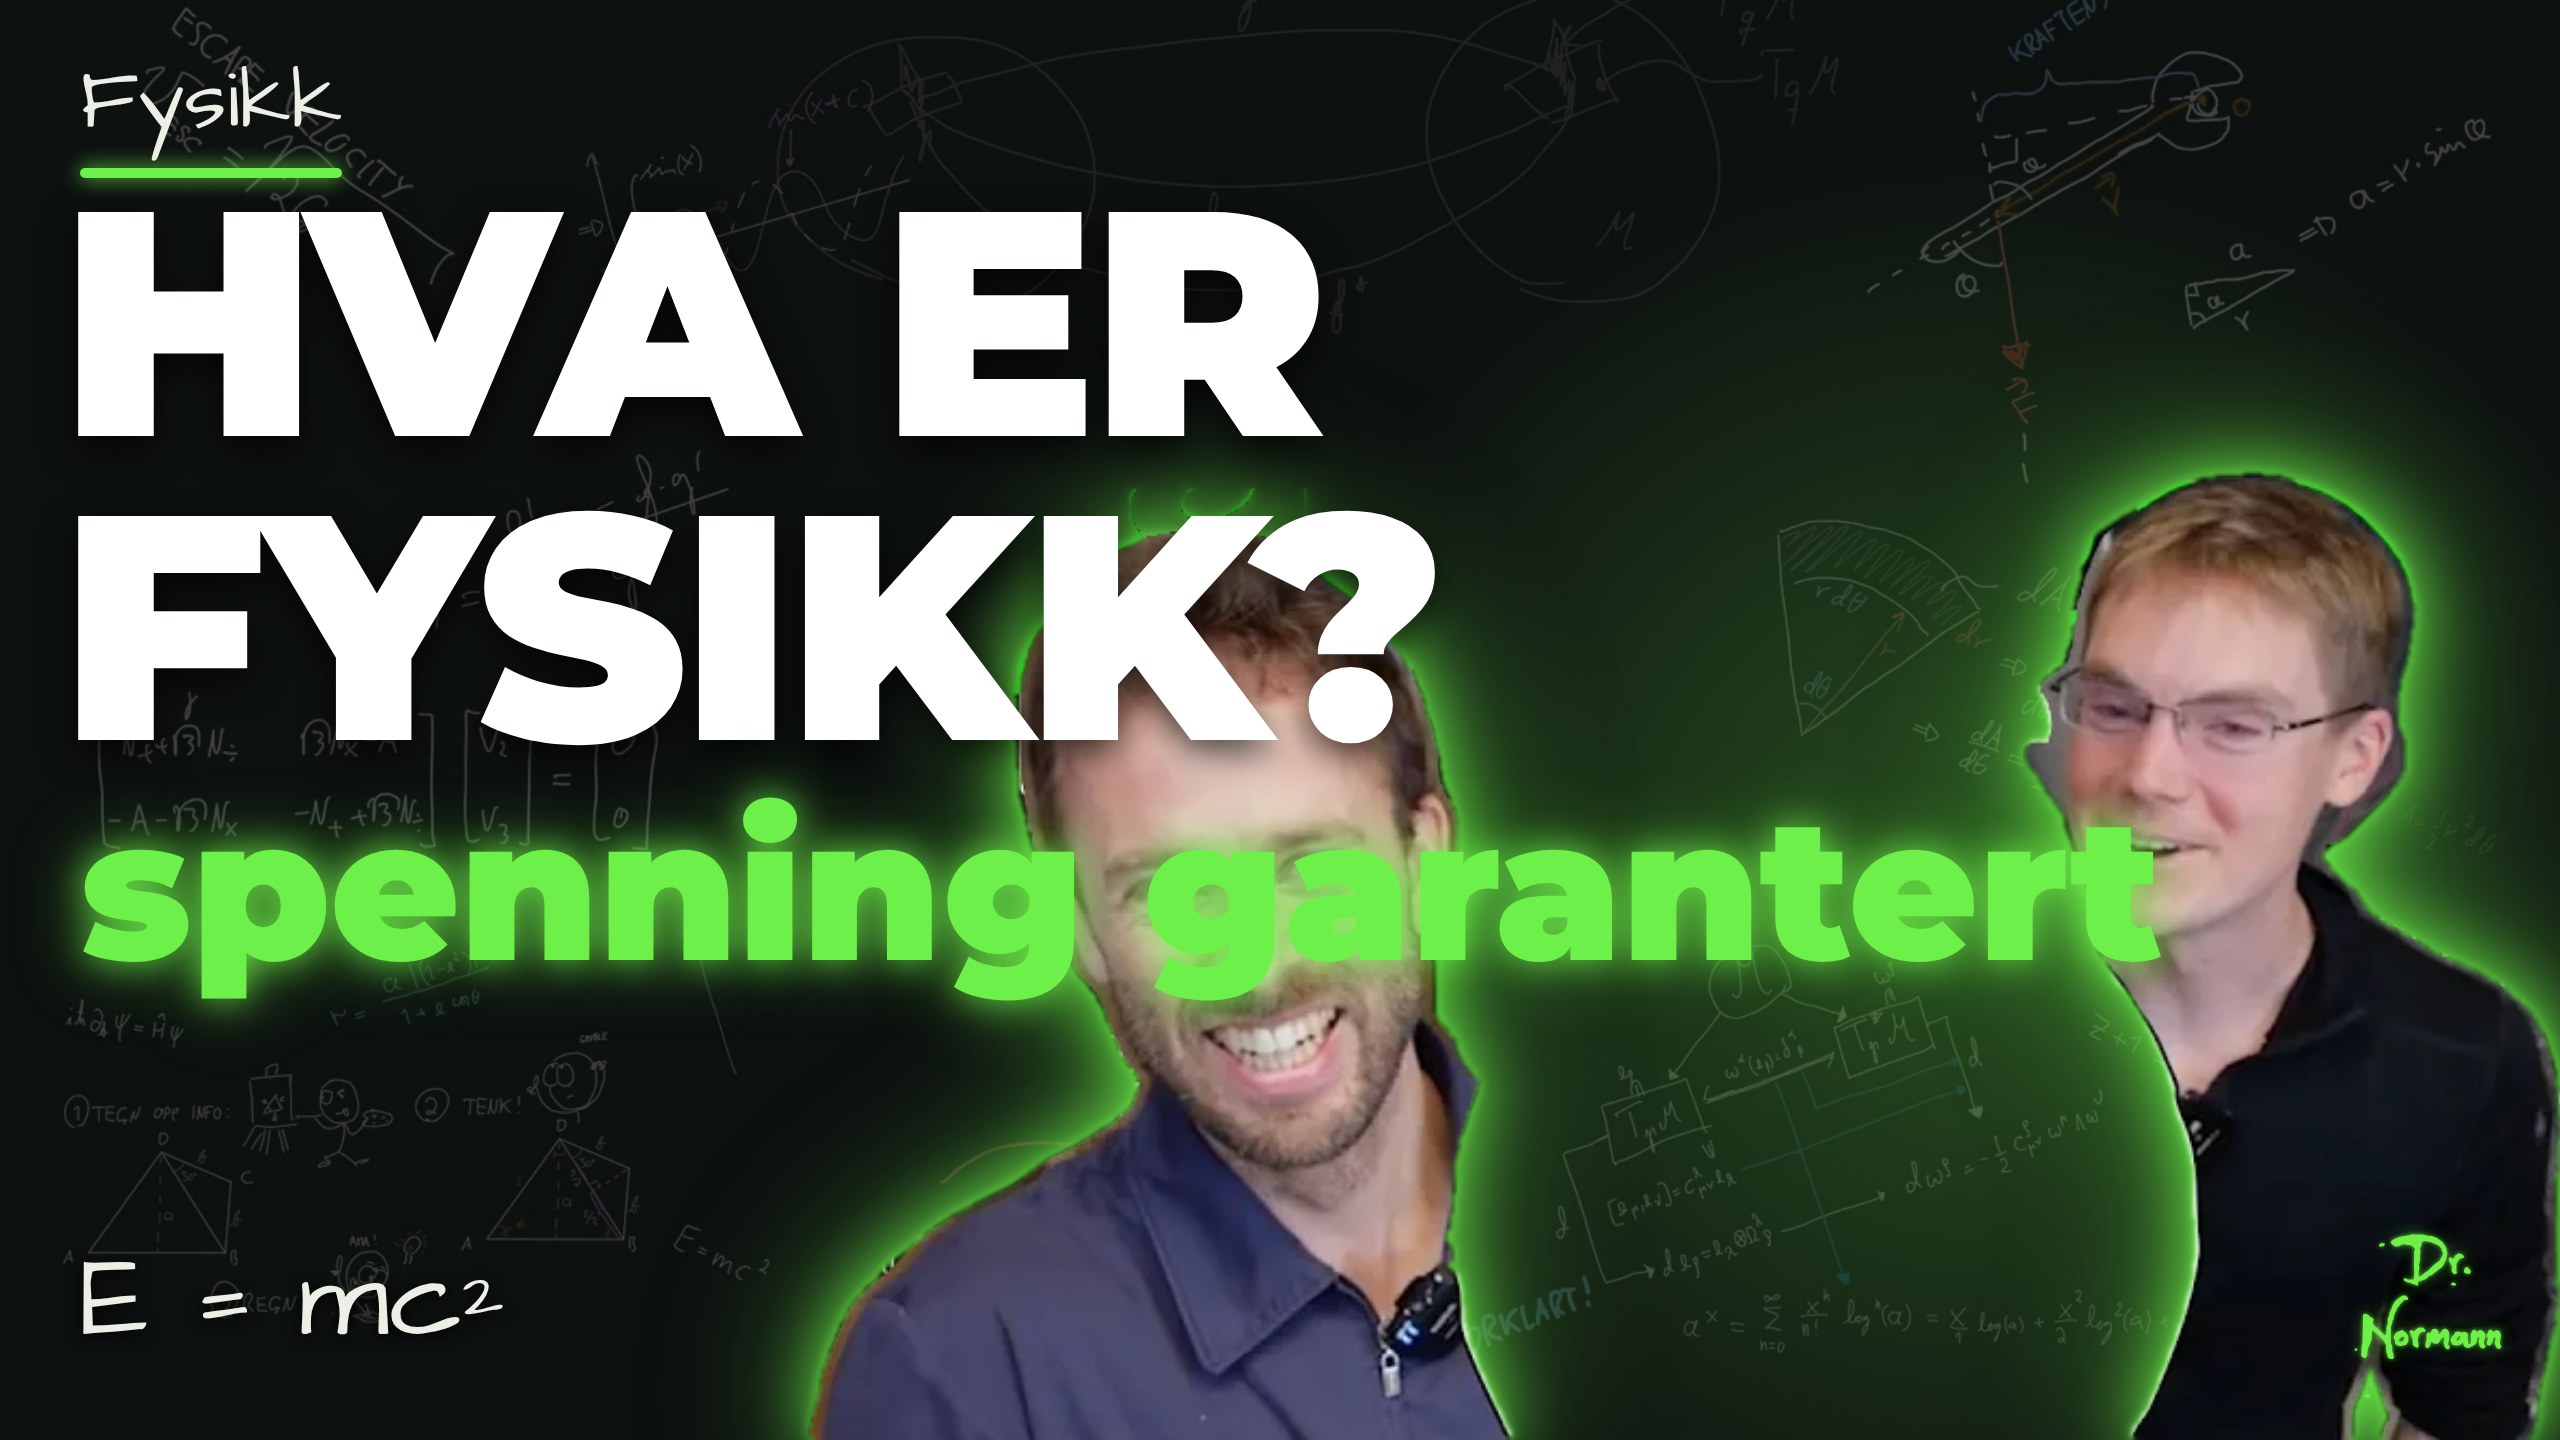
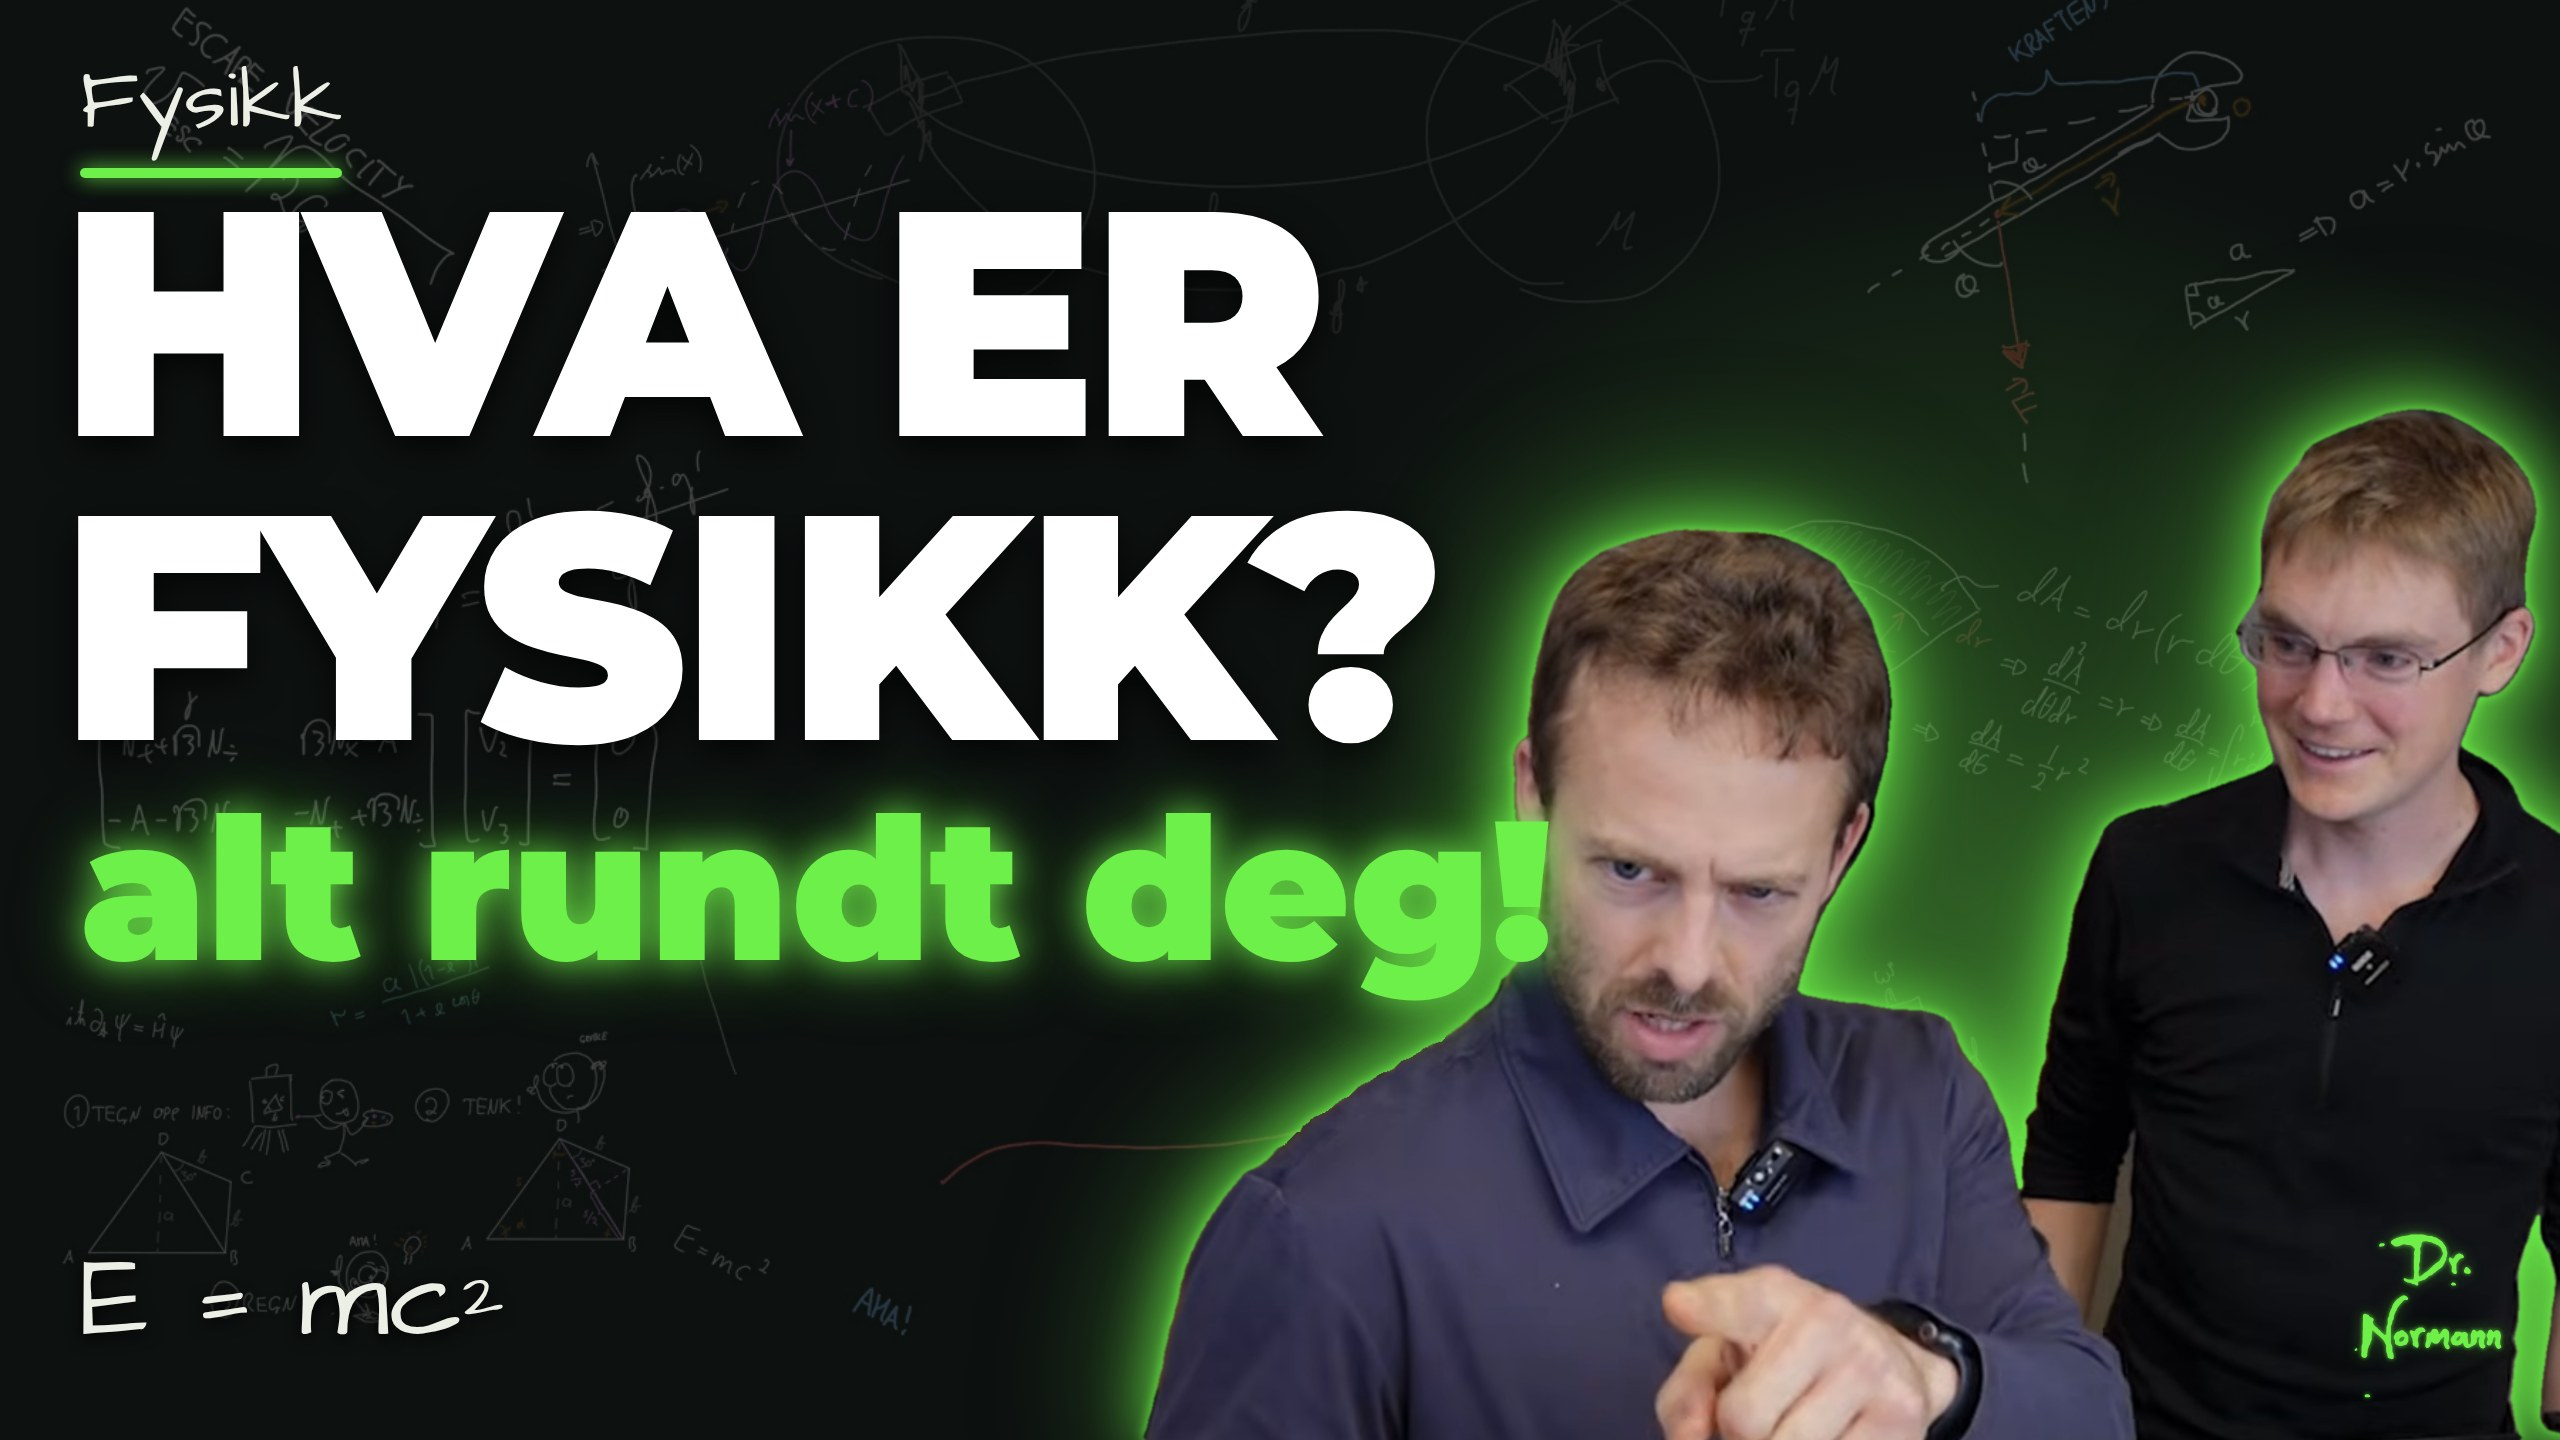
Hva er fysikk: nytt miniatyrbilde fra lærerens foto («alt rundt deg!»); thumbnail.js: person_hoyre
Claude-Session: https://claude.ai/code/session_01AG264w92gA6VbNbZjhAhPL

diff --git a/_verktoy/thumbnail.js b/_verktoy/thumbnail.js
@@ -10,6 +10,7 @@
 //   "undertittel": "lagret arbeid",     grønn, lysende (kort!)
 //   "person": "person.png",             læreren klippet ut (sett_sammen.py --utklipp), gjennomsiktig PNG
 //   "beskjaer_person": [0.25, 0.75],    valgfri: hvilken del av utklippet (andel av bredden) som skal brukes
+//   "person_hoyre": -150,              valgfri: avstand fra høyre kant (standard -10); negativ skyver personen delvis ut av bildet
 //   "person_hoyde": 560,                valgfri: høyden på utklippet (standard 700 av 720); mindre for brede utklipp med flere personer
 //   "tegning": "tegning.png",           valgfri: nøkkeltegning eller eksperiment (PNG/SVG, gjennomsiktig) nede til venstre
 //   "formel": "E_p = ½kx²"              valgfri: nøkkelformel i håndskrift nede i midten
@@ -76,7 +77,7 @@ const path = require('path');
     // beskjær bort tomme (gjennomsiktige) rader nederst og øverst
     const cv = document.getElementById('person'); cv.width = sw; cv.height = im.height;
     cv.getContext('2d').drawImage(im, sx, 0, sw, im.height, 0, 0, sw, im.height);
-    cv.style.height = '${c.person_hoyde || 700}px'; cv.style.width = (${c.person_hoyde || 700} * sw / im.height) + 'px';` : ''}
+    cv.style.right = '${c.person_hoyre ?? -10}px'; cv.style.height = '${c.person_hoyde || 700}px'; cv.style.width = (${c.person_hoyde || 700} * sw / im.height) + 'px';` : ''}
     return true;
   })();
   </script></body></html>`;
